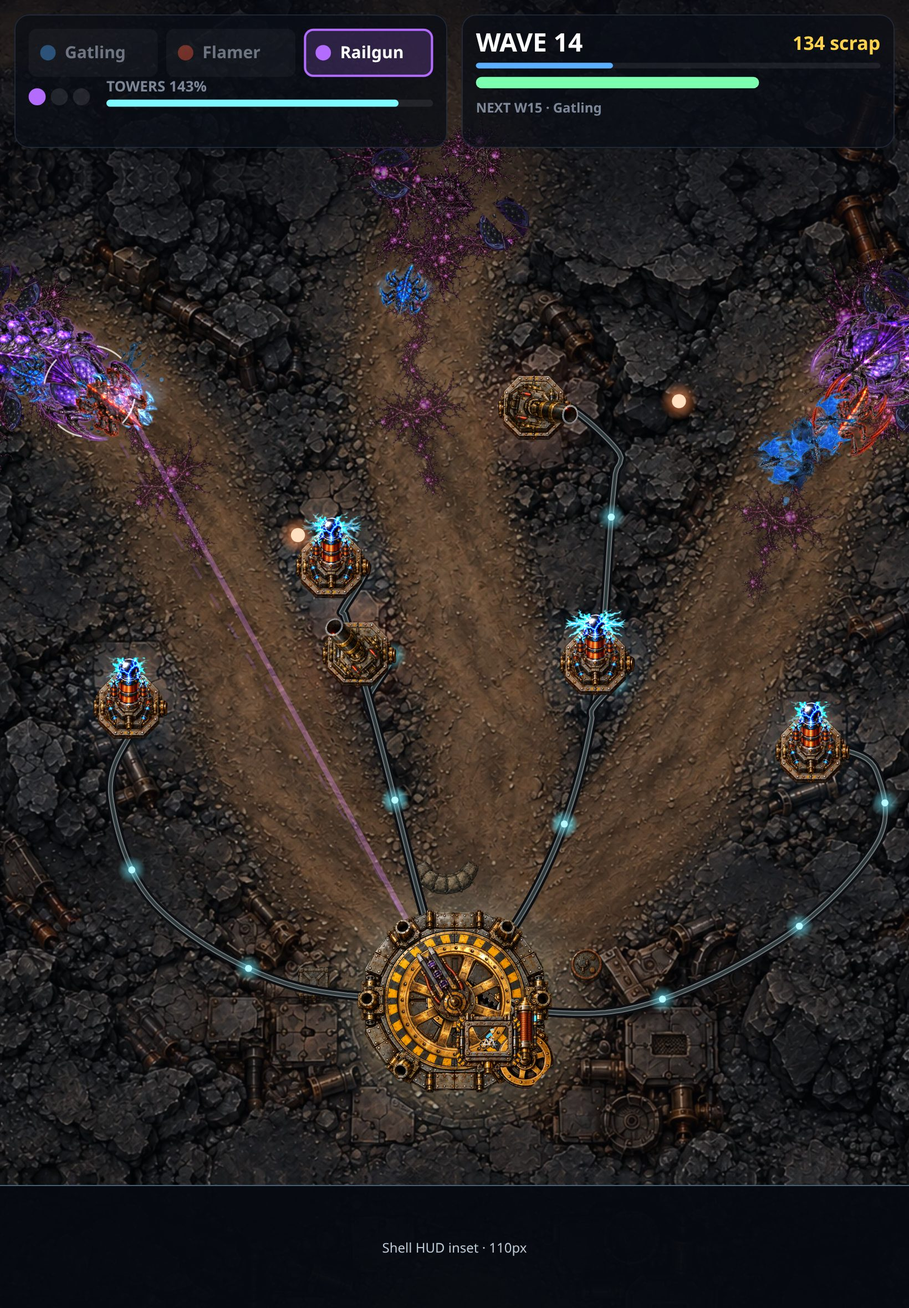
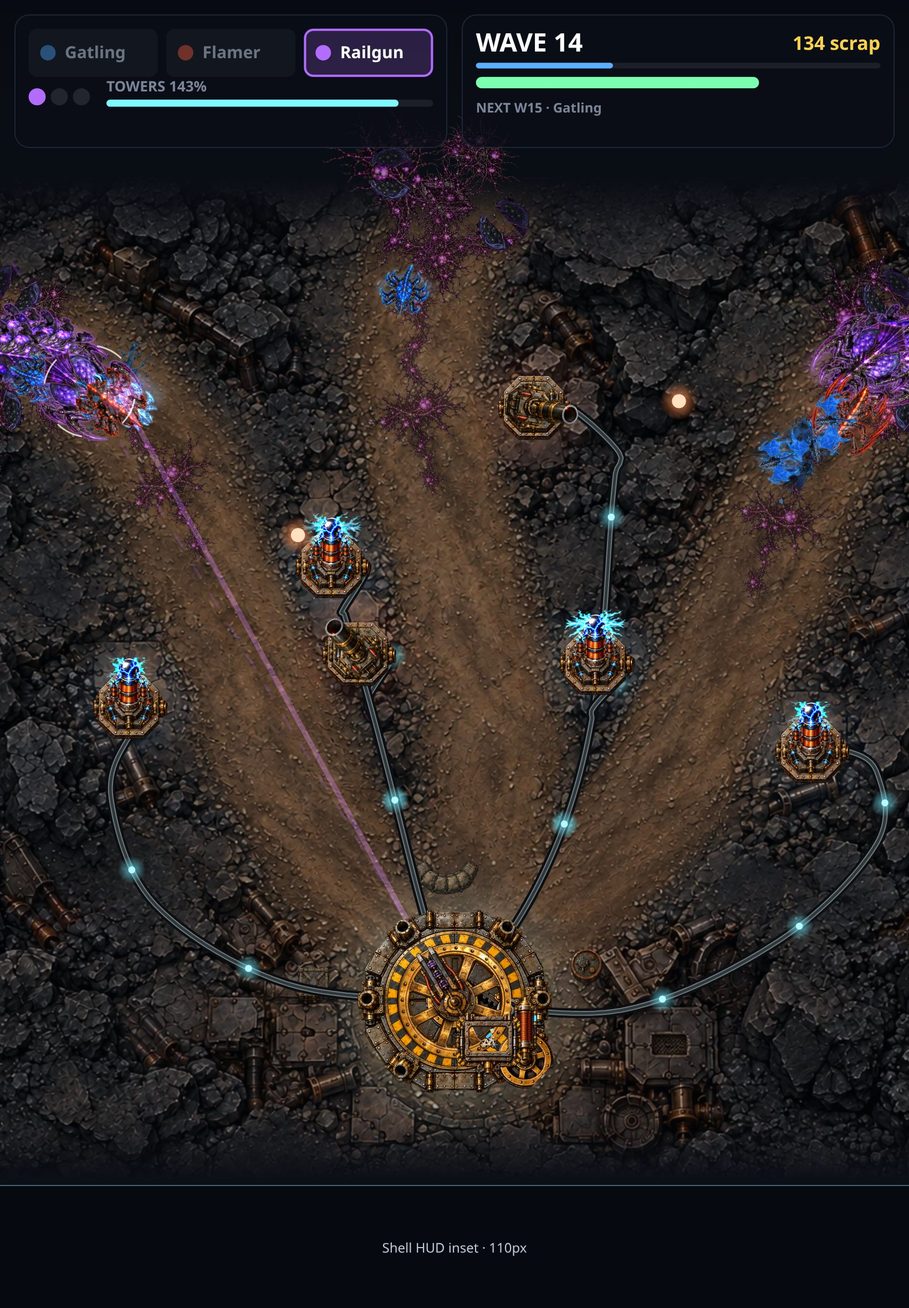
Fix portrait battlefield background reflections

diff --git a/src/games/towerdefense/render/battlefield.ts b/src/games/towerdefense/render/battlefield.ts
@@ -45,16 +45,25 @@ export class Battlefield {
   get ready() { return this.background.complete && this.background.naturalWidth > 0; }
   paint(g: CanvasRenderingContext2D, v: View, W: number, H: number) {
     if (!this.ready) return false;
-    // Extend the terrain's edge colours full-bleed, then register the full painting exactly.
-    g.fillStyle = '#211d19'; g.fillRect(0, 0, W, H);
+    // Draw the registered map once. Portrait/HUD margins are atmosphere, never copies of lanes.
+    const night = '#0d1118';
+    g.fillStyle = night; g.fillRect(0, 0, W, H);
     const scale = v.k / 9;
     const x = v.X(0) - 318 * scale, y = v.Y(0) - 32 * scale, w = 1536 * scale, h = 1024 * scale;
-    // Mirror the outer terrain at its native scale; never stretch rock texture into streaks.
-    if (y > 0) { g.save(); g.translate(x, y); g.scale(scale, -scale); g.drawImage(this.background, 0, 0); g.restore(); }
-    if (y + h < H) { g.save(); g.translate(x, y + h); g.scale(scale, -scale); g.drawImage(this.background, 0, -1024); g.restore(); }
-    if (x > 0) { g.save(); g.translate(x, y); g.scale(-scale, scale); g.drawImage(this.background, 0, 0); g.restore(); }
-    if (x + w < W) { g.save(); g.translate(x + w, y); g.scale(-scale, scale); g.drawImage(this.background, -1536, 0); g.restore(); }
     g.drawImage(this.background, x, y, w, h);
+    // Feather only the painting's perimeter; keep the playable field and turret crisp.
+    // These strips also cover partially offscreen edges without changing world registration.
+    const feather = 6 * v.k;
+    for (const [x0, y0, x1, y1, rx, ry, rw, rh] of [
+      [x, y, x, y + feather, x, y, w, feather],
+      [x, y + h, x, y + h - feather, x, y + h - feather, w, feather],
+      [x, y, x + feather, y, x, y, feather, h],
+      [x + w, y, x + w - feather, y, x + w - feather, y, feather, h],
+    ]) {
+      const edge = g.createLinearGradient(x0, y0, x1, y1);
+      edge.addColorStop(0, night); edge.addColorStop(1, 'rgba(13,17,24,0)');
+      g.fillStyle = edge; g.fillRect(rx, ry, rw, rh);
+    }
     const fog = g.createLinearGradient(0, 0, 0, Math.max(1, y + 12 * v.k));
     fog.addColorStop(0, 'rgba(7,10,17,0.8)'); fog.addColorStop(1, 'rgba(7,10,17,0)');
     g.fillStyle = fog; g.fillRect(0, 0, W, Math.max(0, y + 12 * v.k));

diff --git a/src/games/towerdefense/render/NOTES.md b/src/games/towerdefense/render/NOTES.md
@@ -2,7 +2,7 @@
 
 - Art direction: retain the textured painted terrain, brass/steel machinery and all eight cut-out alien rigs.
 - Brood outlines plus cached ground auras separate aliens from the terrain; bosses use a stronger gold aura.
-- No repaint or simplified terrain. Outer rocky margins mirror at native scale, with atmospheric fog.
+- The registered painting draws once; its perimeter fades into atmospheric portrait/HUD margins without reflections.
 - The painting and all actors share the MAP_INTEGRATION.md registration and field-unit sizing.
 - Exact right-lane controls and plateau pads adopted together in sim/defs.ts.
 - All pads clear floor/shoulder geometry and all level-one tower kinds reach their assigned lane.
